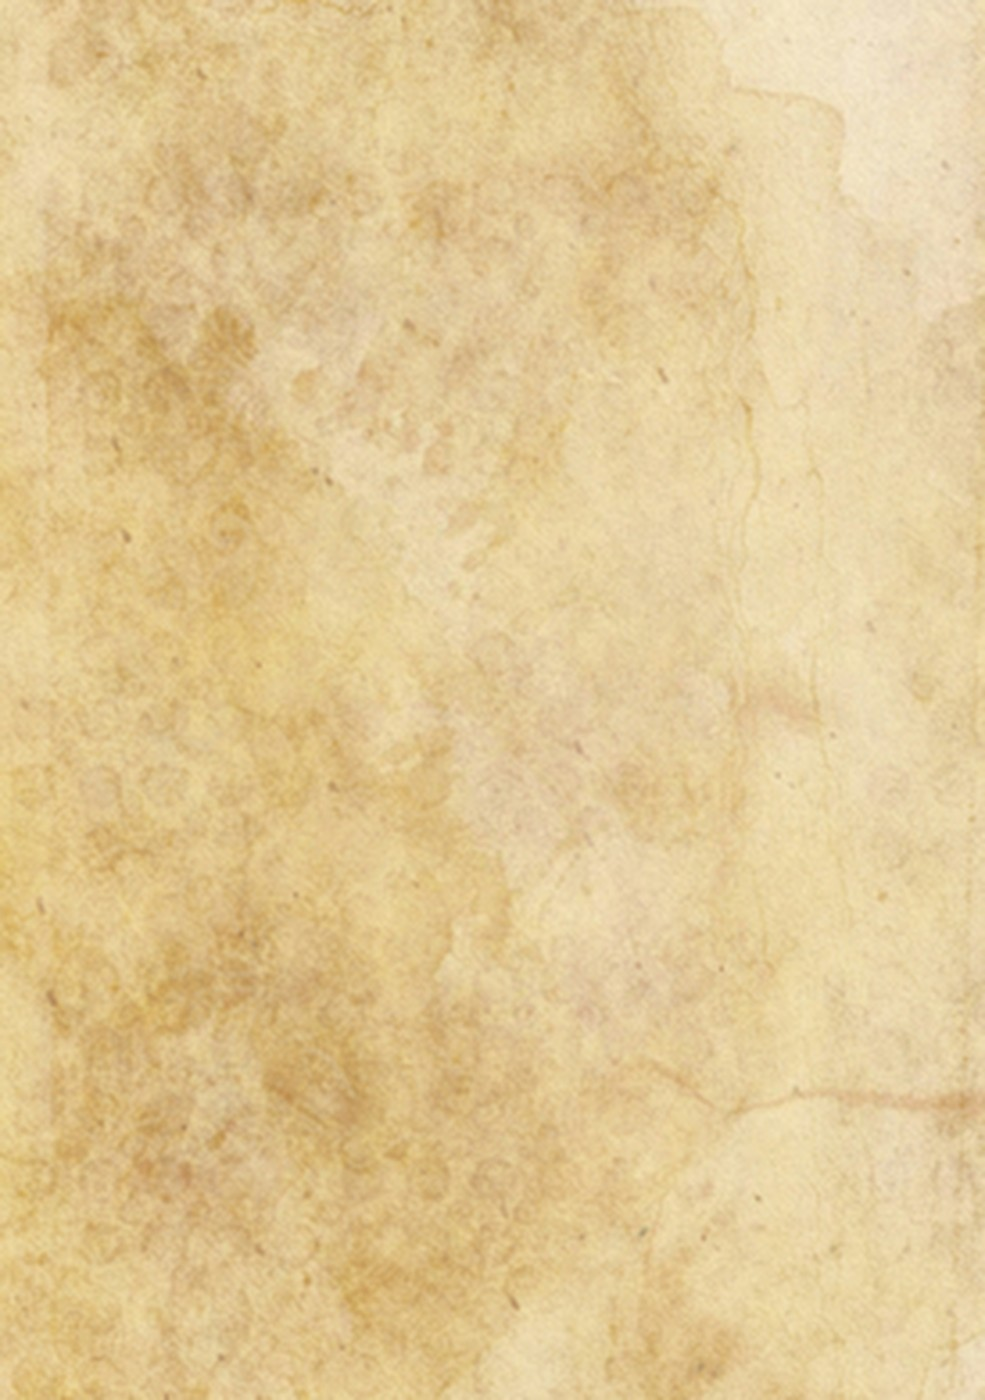
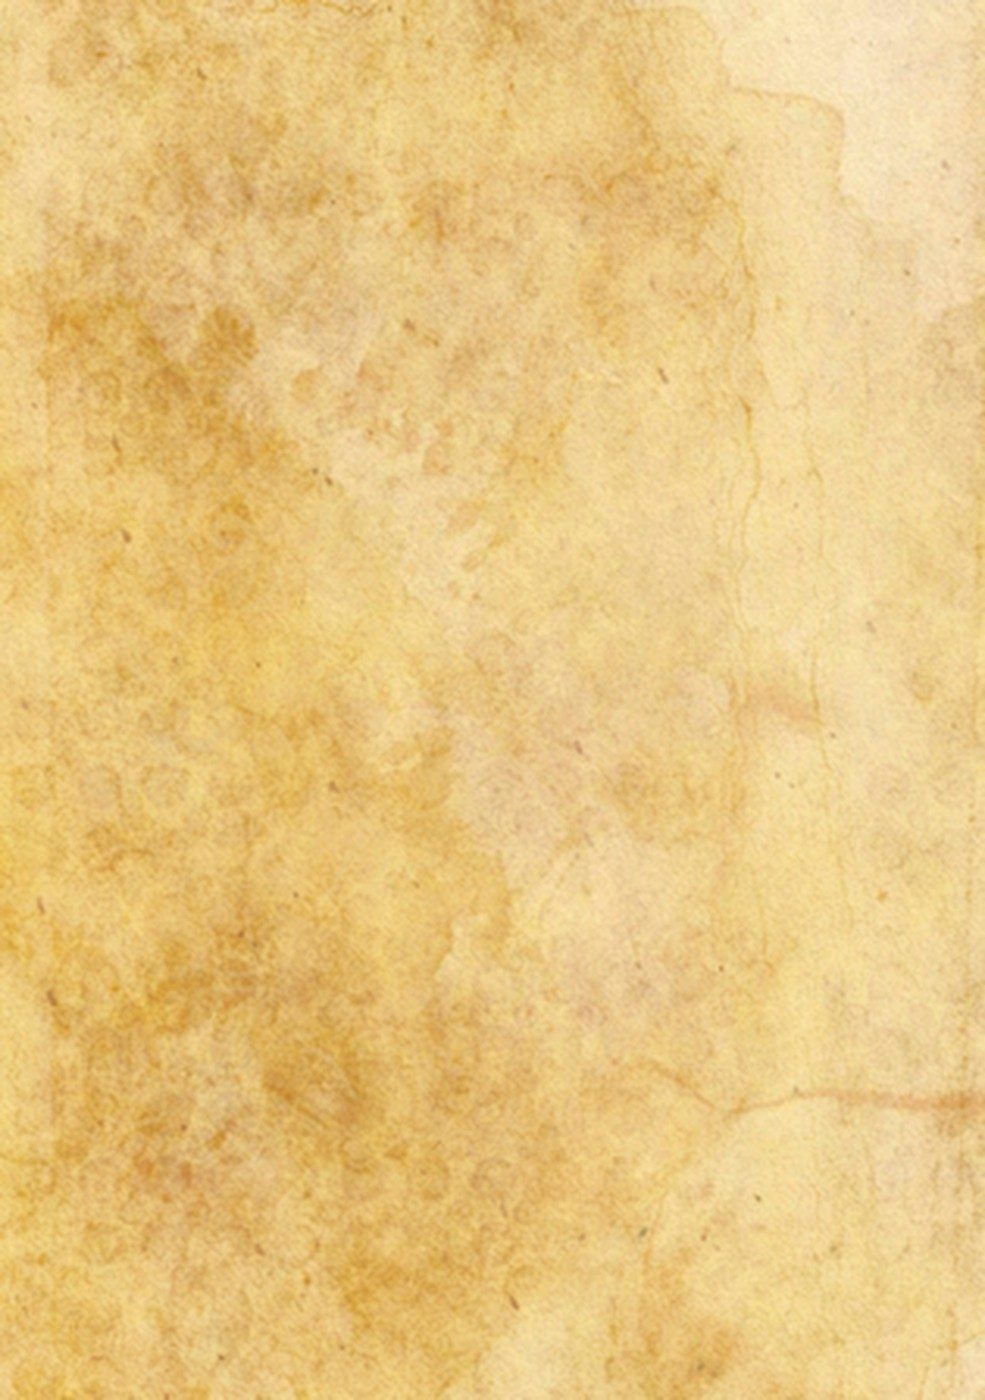
Fix the email masthead: left-aligned, on the parchment, not inside the card (#119)
Side-by-side against the original PDF, the actual gap was structural:
the badge, eyebrow and "Every recipe has a story." headline sit
left-aligned directly on the parchment background above the cream
card. My version had them centered with the headline nested inside
the card instead. Moves this masthead into the shared emailShell()
so every outbound email gets it, and removes the newsletter's own
duplicate headline. Also restores more of the parchment's original
warmth/saturation — the previous denoise pass had flattened it out.

diff --git a/lib/email.ts b/lib/email.ts
@@ -9,8 +9,9 @@ function emailShell(bodyHtml: string) {
   return `
     <div style="background: #EED8B2; padding: 32px 12px; font-family: 'Gill Sans MT', 'Gill Sans', Avenir, Corbel, Arial, sans-serif;">
       <div style="max-width: 720px; margin: 0 auto; background-image: url('${siteUrl}/images/email/opr-paper-background.jpg'); background-size: cover; background-position: top center; background-repeat: no-repeat; background-color: #EAD09B; border-radius: 18px; border: 1px solid #9B6935; padding: 34px 32px 26px;">
-        <img src="${siteUrl}/images/email/opr-logo-badge.png" alt="Other People's Recipes" width="64" height="64" style="display: block; margin: 0 auto 14px; border-radius: 999px;" />
-        <p style="color: #9A622A; letter-spacing: 2px; font-size: 12px; text-transform: uppercase; text-align: center; margin: 0 0 22px;">Other People&apos;s Recipes</p>
+        <img src="${siteUrl}/images/email/opr-logo-badge.png" alt="Other People's Recipes" width="64" height="64" style="display: block; margin: 0 0 18px; border-radius: 999px;" />
+        <p style="color: #9A622A; letter-spacing: 2px; font-size: 12px; text-transform: uppercase; text-align: left; margin: 0 0 10px;">Other People&apos;s Recipes</p>
+        <h1 style="font-family: Didot, 'Bodoni MT', Georgia, 'Times New Roman', serif; font-size: 34px; line-height: 1.2; text-align: left; color: #123C39; margin: 0 0 26px;">Every recipe has a story.</h1>
         <div style="background: #FFF9EE; border-radius: 14px; padding: 34px 38px; color: #4A4232; font-size: 19px; line-height: 1.65; box-shadow: 0 12px 26px rgba(74, 42, 14, 0.16);">
           ${bodyHtml}
         </div>
@@ -246,8 +247,6 @@ export function welcomeNewsletterEmail({
   return {
     subject: "Welcome to our table: our very first newsletter",
     html: emailShell(`
-      <h1 style="font-family: Didot, 'Bodoni MT', Georgia, 'Times New Roman', serif; font-size: 32px; line-height: 1.2; text-align: center; color: #123C39; margin: 0 0 22px;">Every recipe has a story.</h1>
-
       <p style="font-size: 12px; text-transform: uppercase; letter-spacing: 1.5px; color: #9A622A; margin: 0 0 12px;">A note from the founder</p>
       <p>Hi ${escapeHtml(name)},</p>
       <p>I&apos;ve been carrying the idea for Other People&apos;s Recipes with me since 2000.</p>
